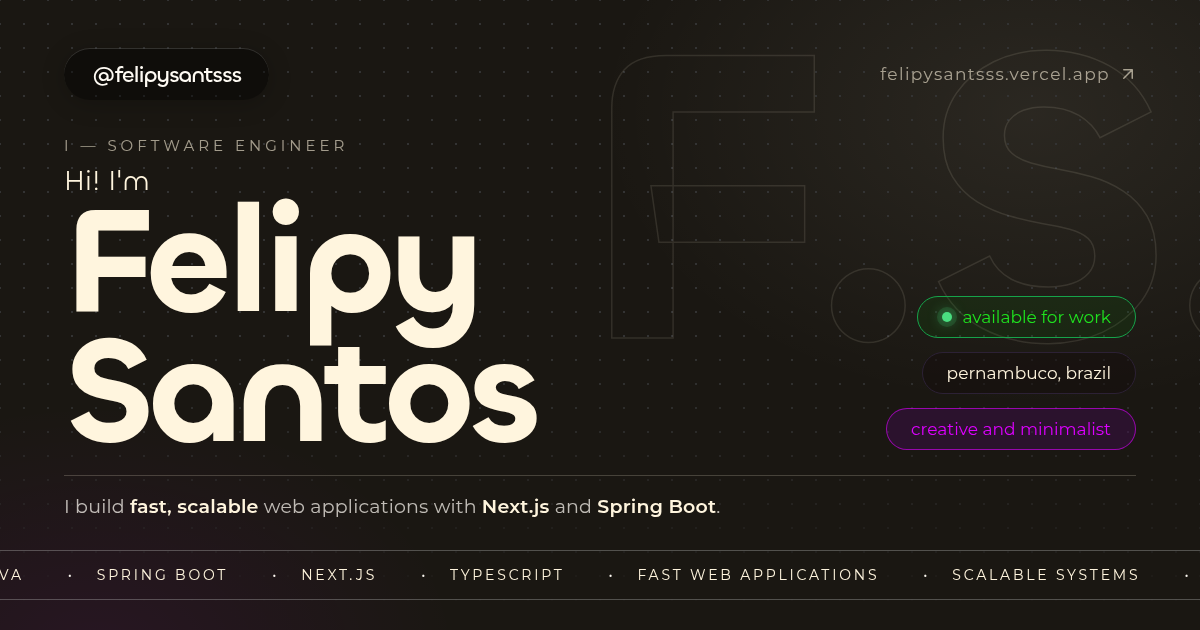
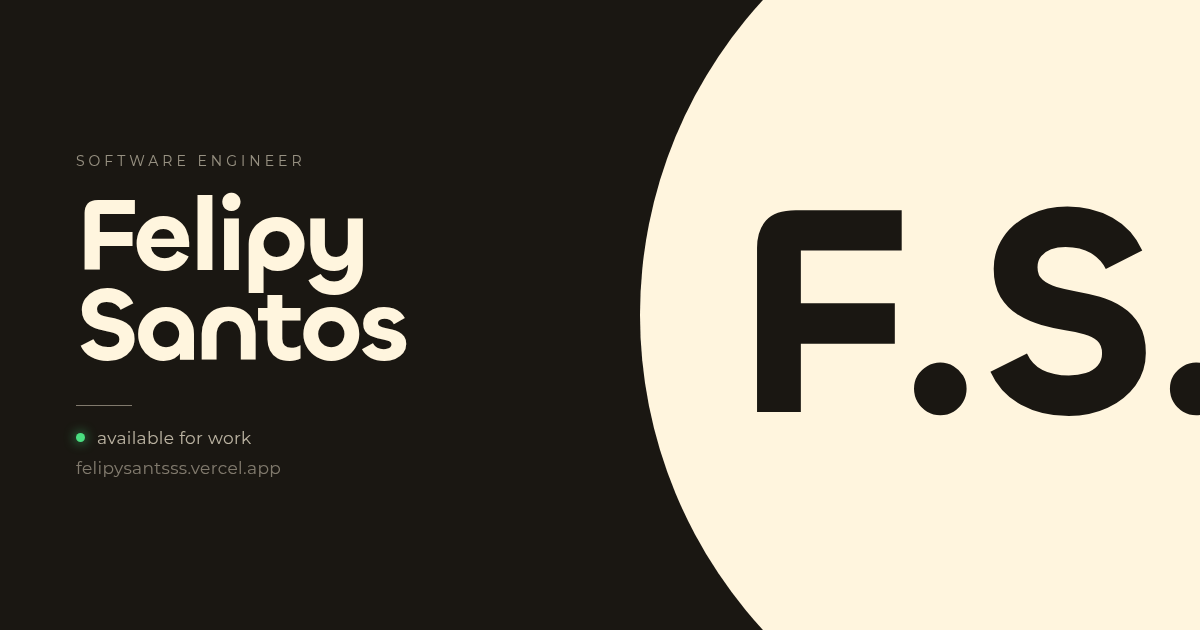
style(seo): make the share image more minimal
Keep only the name, role, availability and URL next to the F.S. logo
enlarged into a cropped disk; the file drops from 176 KB to 40 KB.

diff --git a/src/app/[locale]/layout.tsx b/src/app/[locale]/layout.tsx
@@ -108,7 +108,7 @@ const shareImage = {
   width: 1200,
   height: 630,
   type: "image/png",
-  alt: "Felipy Santos — Software Engineer. Fast, scalable web applications with Next.js and Spring Boot.",
+  alt: "Felipy Santos — Software Engineer, available for work",
 };
 
 // Título e descrição por idioma, para o LocaleProvider atualizar o <head> na troca de idioma
